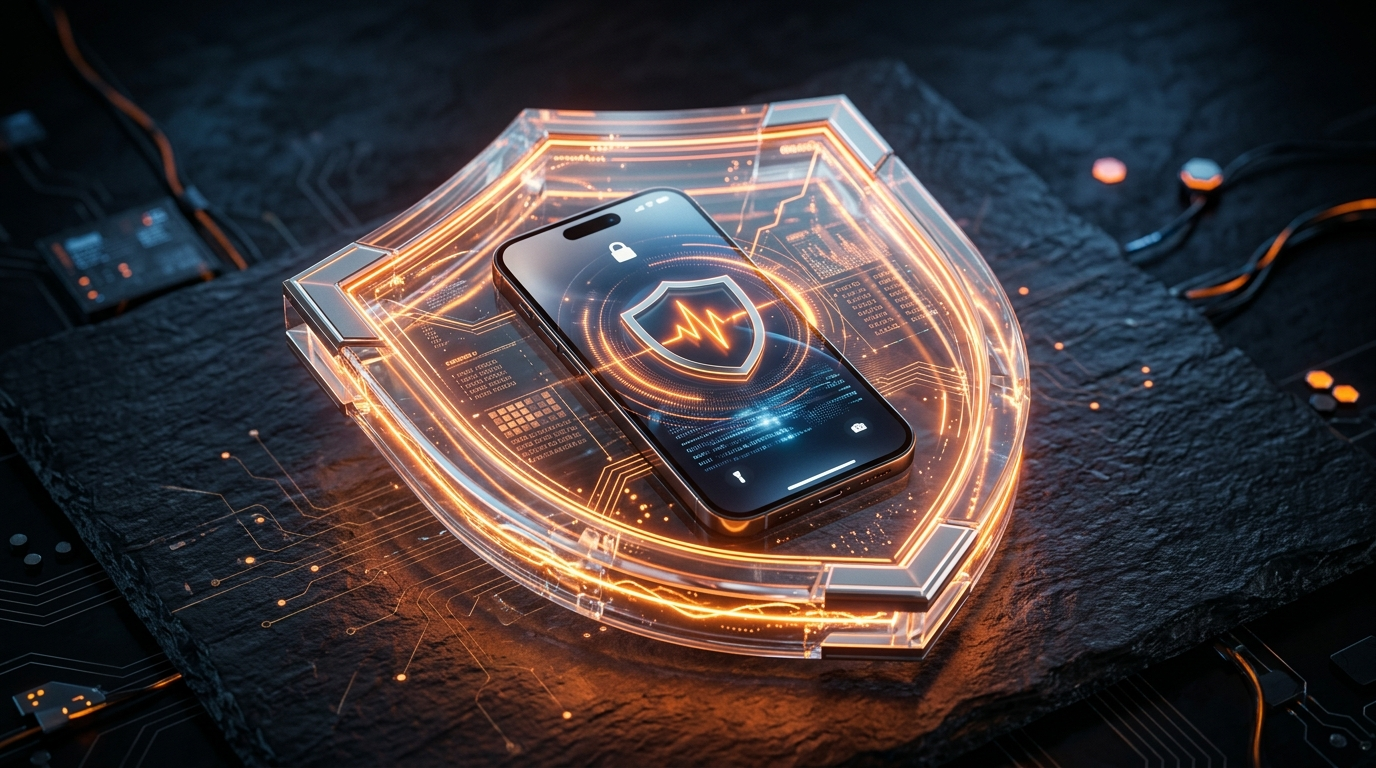
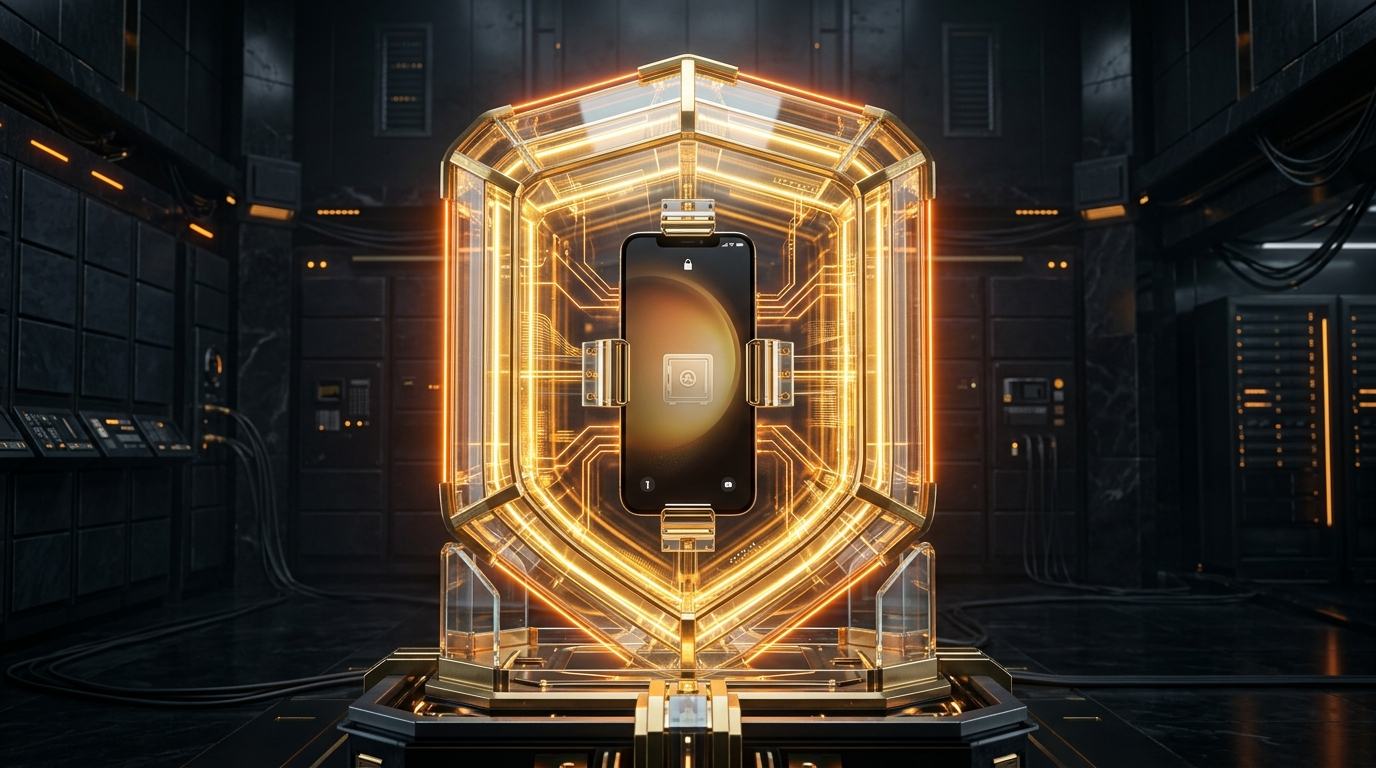
fix: replace hero slider images with 100% topic-matched high-definition visuals

diff --git a/frontend/components/HepsiburadaHero.tsx b/frontend/components/HepsiburadaHero.tsx
@@ -12,7 +12,7 @@ export default function HepsiburadaHero() {
       title: 'FIYATI İŞİNİ BİLEN TELEFONCU ESNAFI VERSİN!',
       subtitle: 'Tüm ticaret müşteri ile 150+ onaylı yetkili telefoncu esnafı arasında. Cihazını ihaleye çıkar, en yüksek teklifi sen seç!',
       badge: 'DOĞRUDAN ESNAF & MÜŞTERİ TİCARETİ',
-      img: '/banners/clean_hero_1.jpg?v=4',
+      img: '/banners/clean_hero_1.jpg?v=6',
       ctaText: 'Cihazını İhaleye Çıkar',
       ctaLink: '/sell',
     },
@@ -21,7 +21,7 @@ export default function HepsiburadaHero() {
       title: 'YAN SANAYİ "YENİLENMİŞ" TELEFONLARA SON!',
       subtitle: 'Bizde çakma parça veya kalitesiz Çin ekranı yok! Sadece %100 Orijinal Sıfır veya Doğrulanmış İkinci El var.',
       badge: 'ÇAKMA PARÇASIZ %100 ORİJİNAL',
-      img: '/banners/clean_hero_2.jpg?v=4',
+      img: '/banners/clean_hero_2.jpg?v=6',
       ctaText: 'Orijinal Cihazları İncele',
       ctaLink: '/?cat=Apple',
     },
@@ -30,7 +30,7 @@ export default function HepsiburadaHero() {
       title: '150+ YETKİLİ TELEFONCU CANLI İHALEDE',
       subtitle: 'Otomatik alım robotlarına veya komisyonculara cihaz kaptırma! İşi bilen telefoncular gerçek değerini versin.',
       badge: 'CANLI AÇIK ARTIRMA',
-      img: '/banners/clean_hero_3.jpg?v=4',
+      img: '/banners/clean_hero_3.jpg?v=6',
       ctaText: 'Hemen Teklif Al',
       ctaLink: '/sell',
     },
@@ -39,7 +39,7 @@ export default function HepsiburadaHero() {
       title: 'VADE FARKSIZ 12 TAKSİT İMKANI',
       subtitle: 'Tüm anlaşmalı kredi kartlarına özel vade farksız 12 aya varan taksit avantajıyla hemen sahip ol.',
       badge: 'PEŞİN FİYATINA TAKSİT',
-      img: '/banners/clean_hero_4.jpg?v=4',
+      img: '/banners/clean_hero_4.jpg?v=6',
       ctaText: 'Taksitli Fırsatları İncele',
       ctaLink: '/?promo=taksit',
     },
@@ -48,7 +48,7 @@ export default function HepsiburadaHero() {
       title: '%100 ESCROW GÜVENCELİ ALIM SATIM',
       subtitle: 'Paranız Escrow havuz hesabında güvende. Cihazınızı teslim alıp onaylayana kadar paranız %100 korumada.',
       badge: 'SIRTINIZ YERE GELMESİN',
-      img: '/banners/clean_hero_5.jpg?v=4',
+      img: '/banners/clean_hero_5.jpg?v=6',
       ctaText: 'Escrow Sistemi Nasıl Çalışır?',
       ctaLink: '/garanti',
     },
